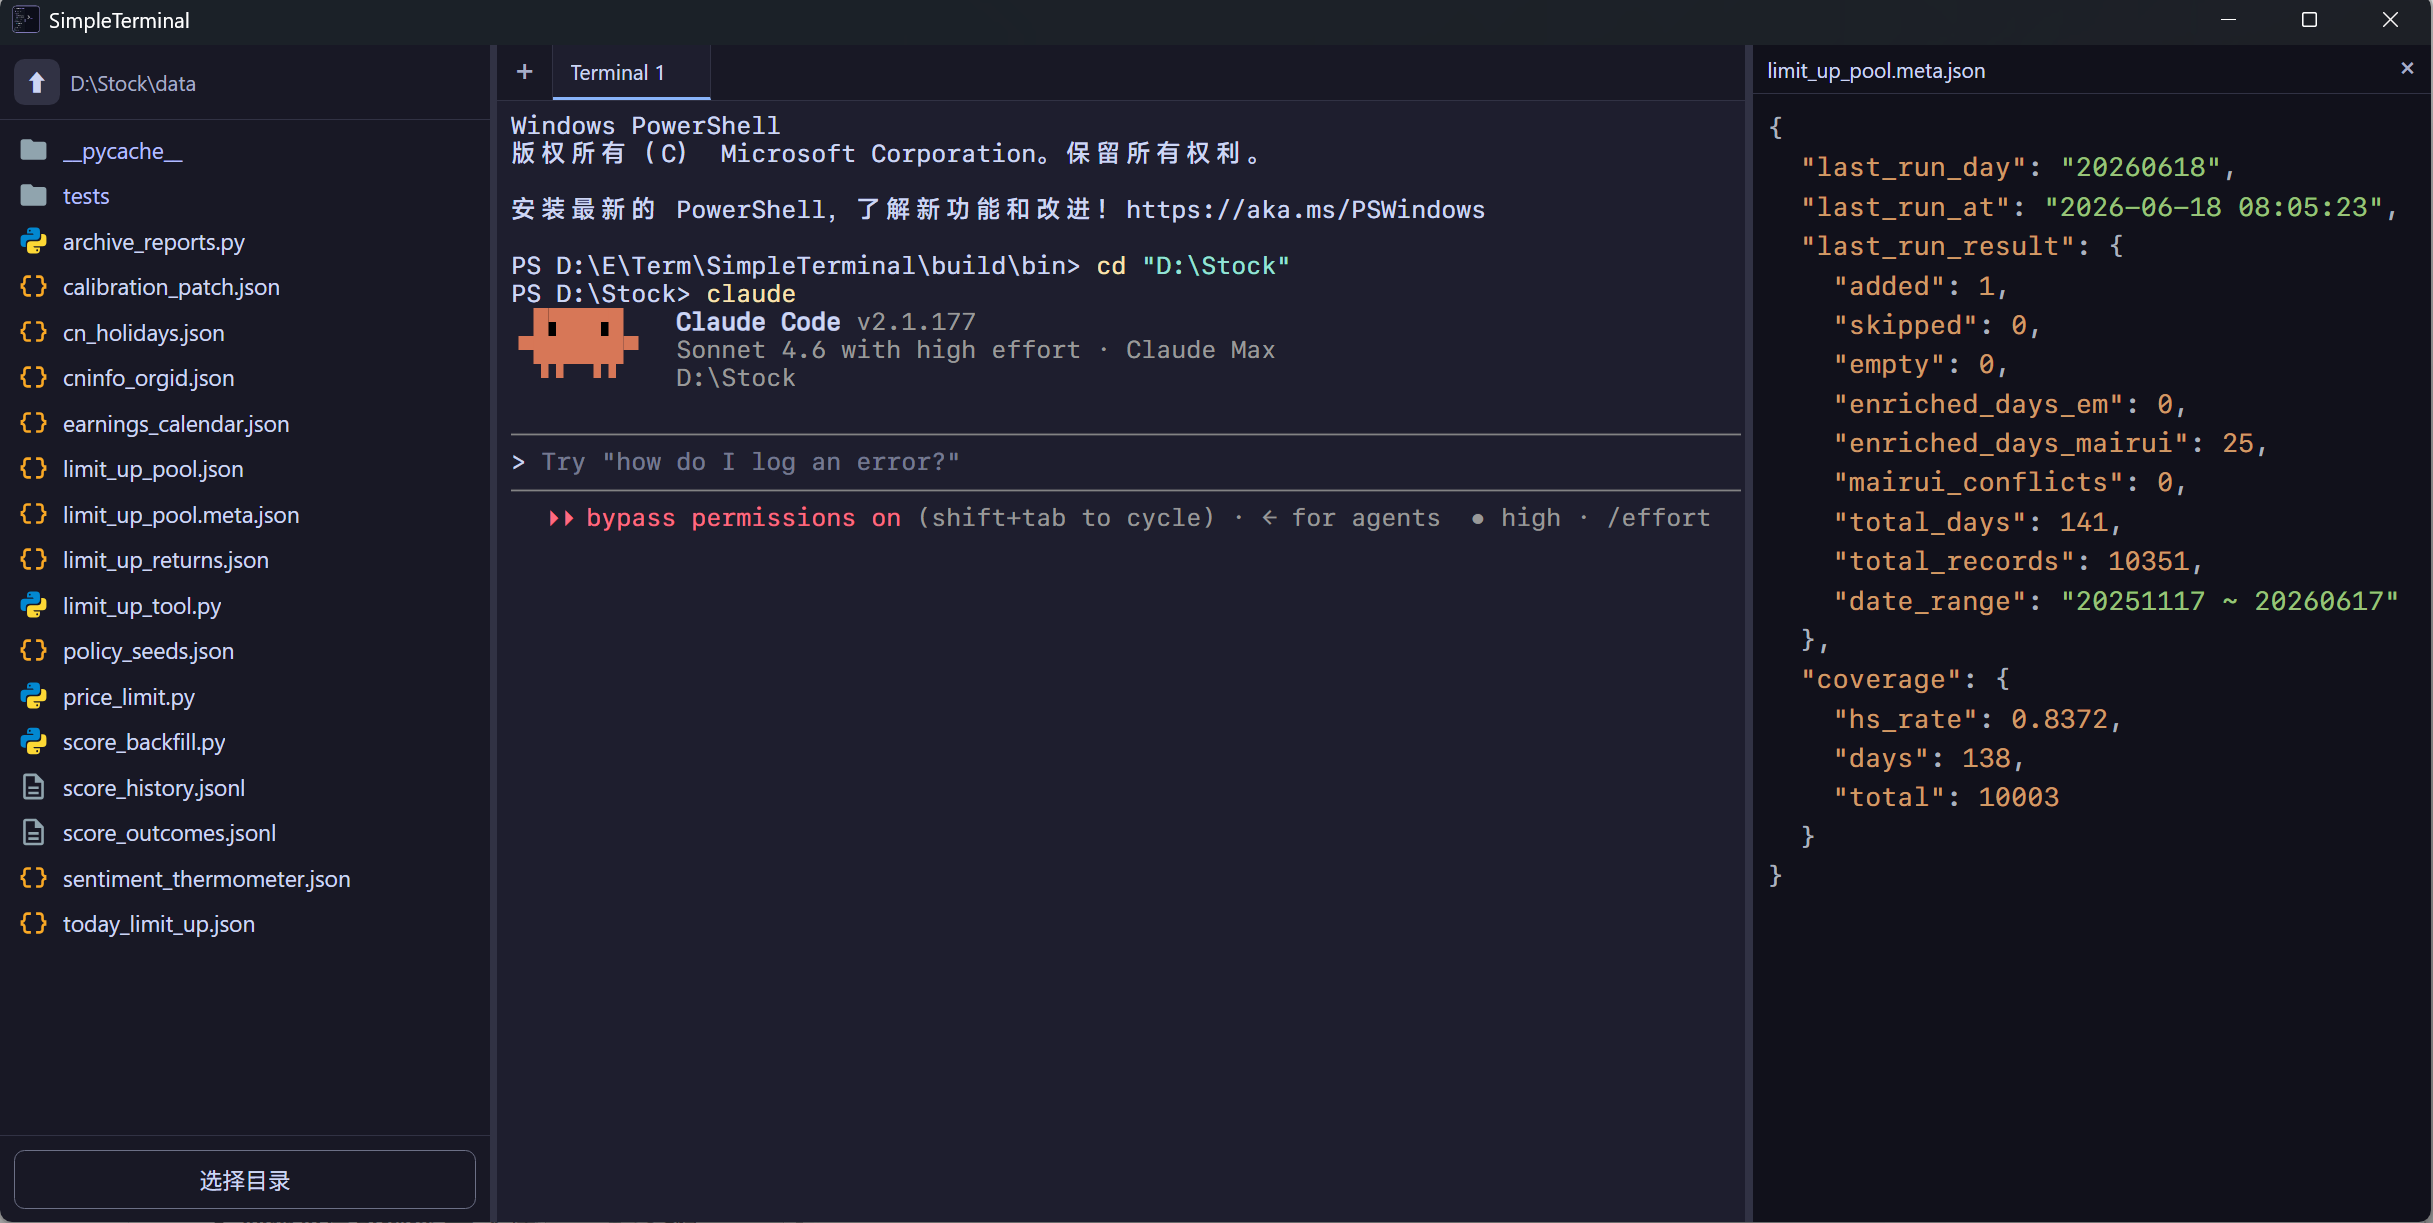
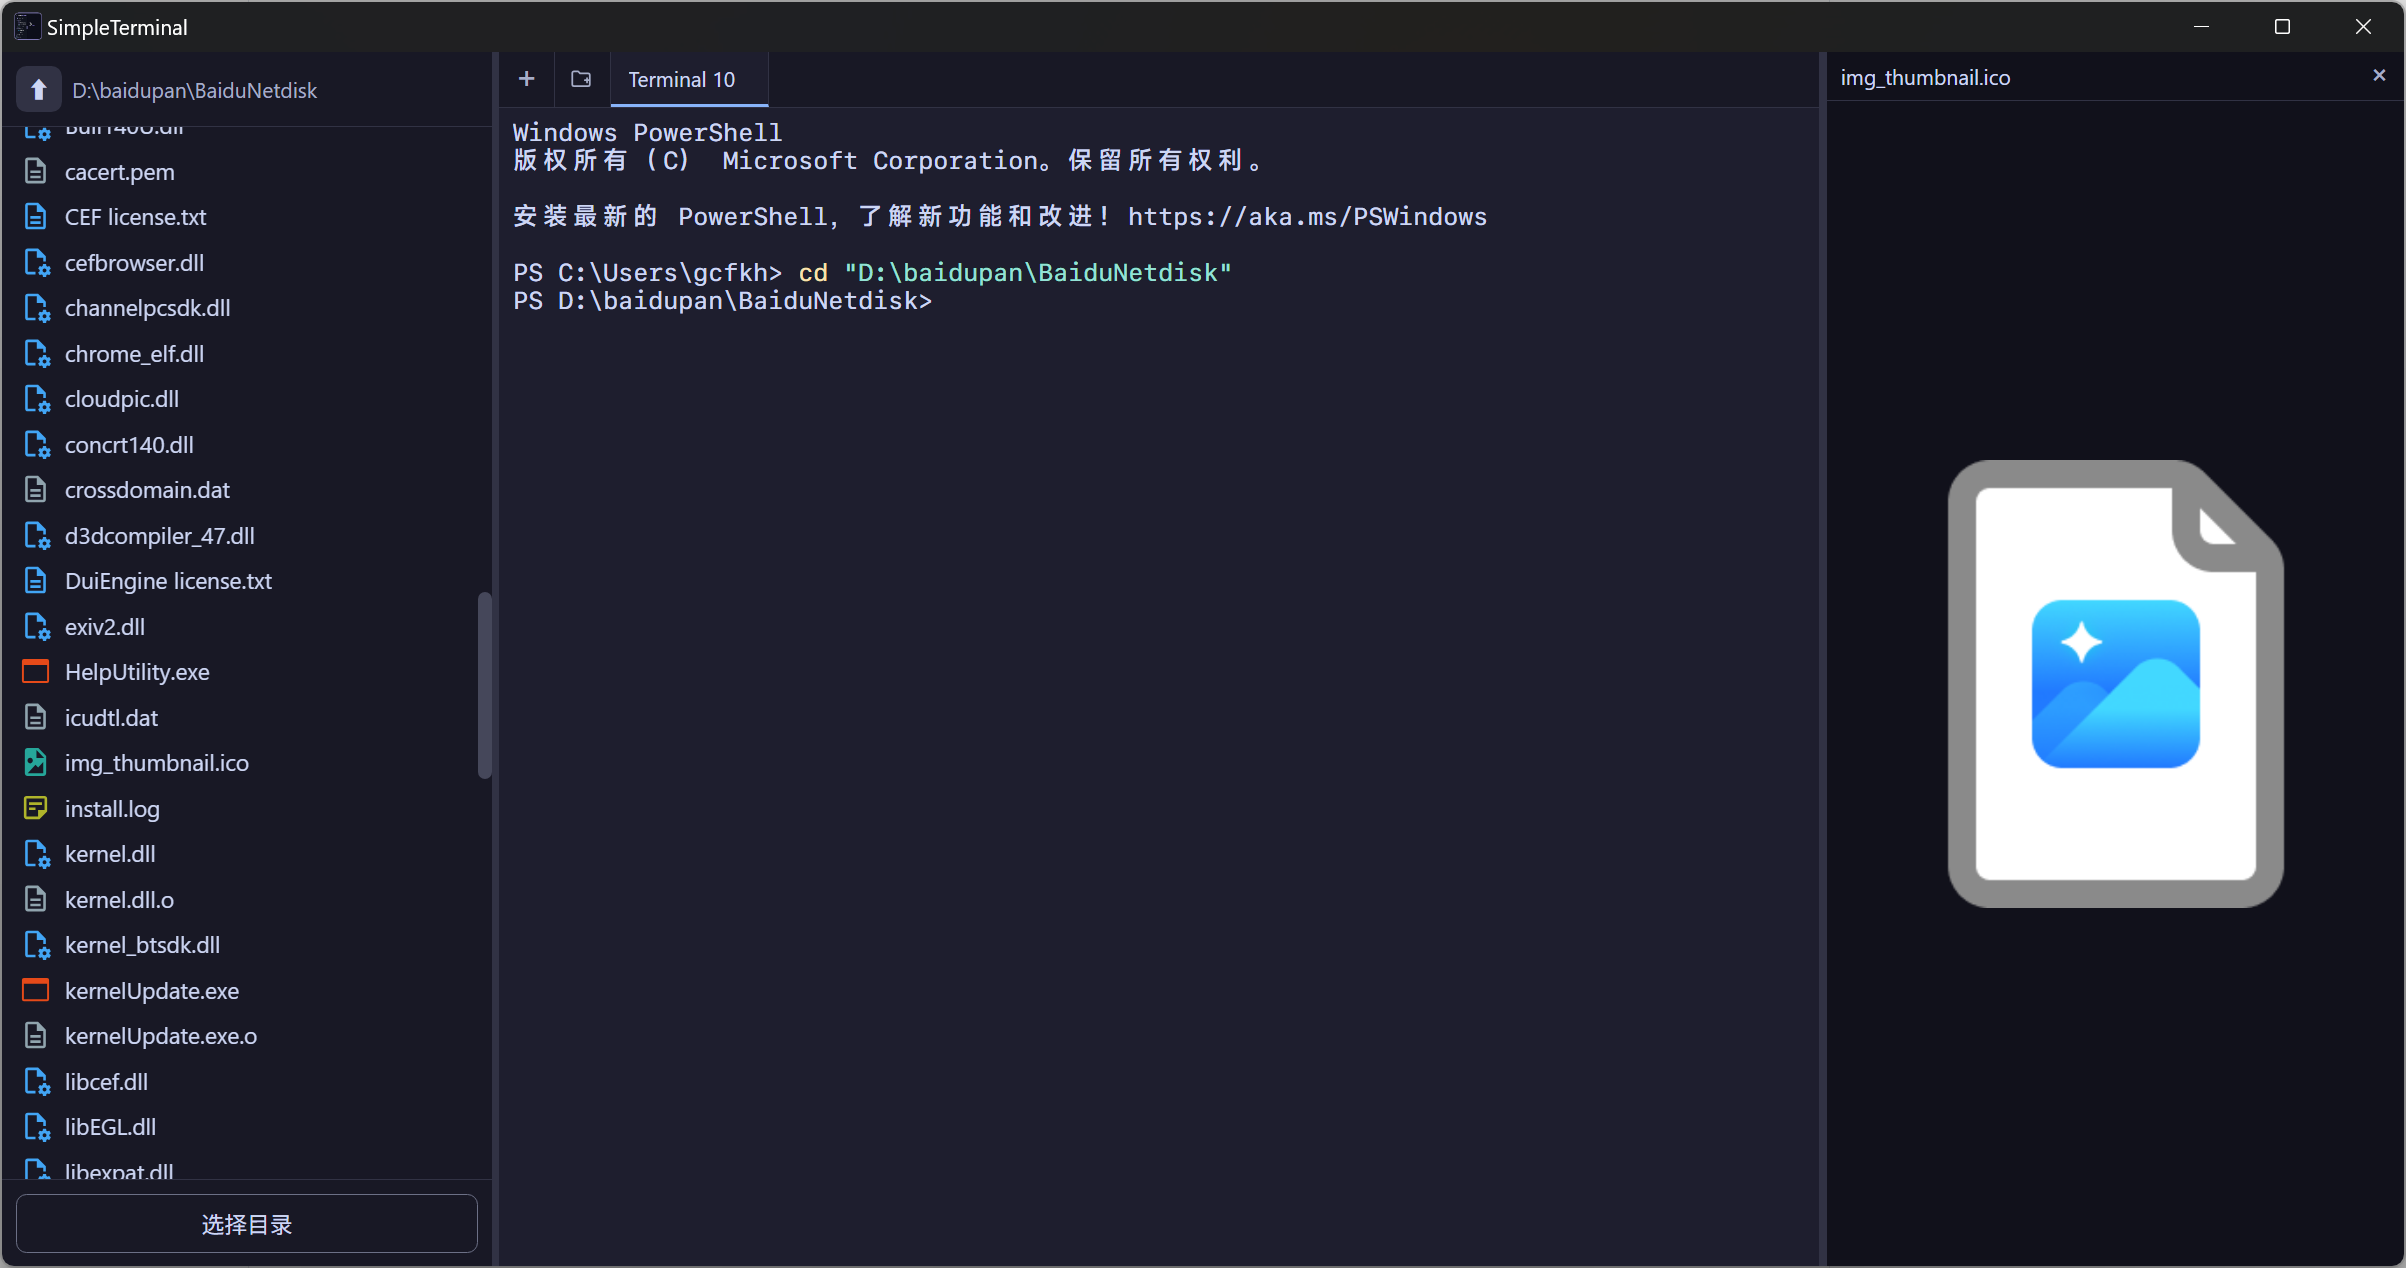
docs: 更新应用截图为 v1.1.0 新功能界面
- assets/screenshot.png 替换为展示「终端 cd 同步文件树 + 双新建按钮」的新截图
- CHANGELOG v1.1.0 条目嵌入该截图并加说明

diff --git a/CHANGELOG.md b/CHANGELOG.md
@@ -9,6 +9,11 @@ All notable changes to this project are documented in this file.
 
 ## [v1.1.0] · 2026-06-19
 
+![SimpleTerminal v1.1.0 截图 / screenshot](assets/screenshot.png)
+
+> 截图展示：终端 `cd` 后左侧文件树自动同步、标签栏的两个新建按钮（`+` 默认目录 / 📁 当前目录）。
+> The screenshot shows the file tree auto-syncing after a terminal `cd`, and the two new-tab buttons (`+` default dir / 📁 current dir).
+
 ### ✨ 新增 (Added)
 
 - **终端 `cd` 自动同步文件树** — 应用启动后、左侧尚未选择目录时，在终端里首次切换目录（`cd`）会自动把左侧文件树加载到该目录。当前路径通过解析 PowerShell 提示符识别，因此对**手动输入、粘贴、↑ 历史、`Tab` 补全**等各种输入方式都生效。一旦文件树有了内容，此自动同步即关闭，之后的 `cd` 不再改动文件树。